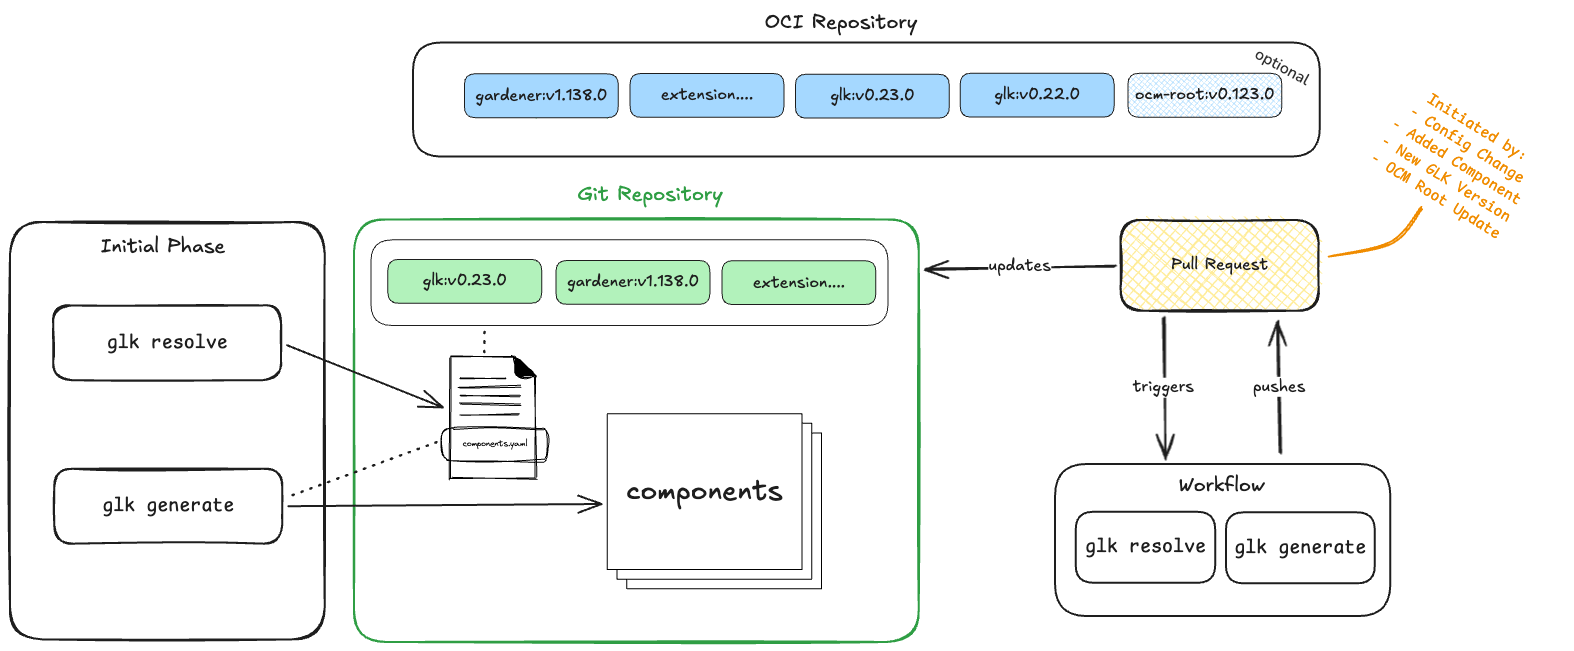
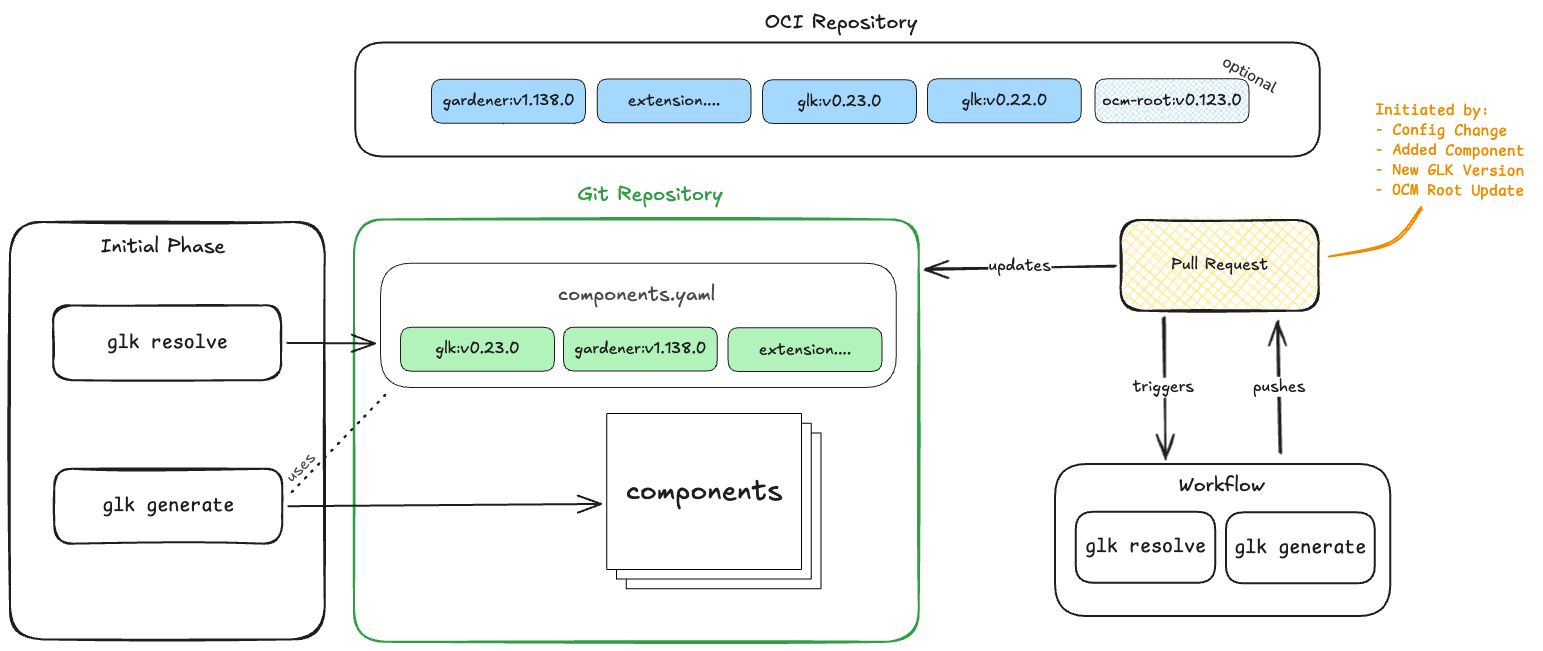
Address review comments

diff --git a/docs/concepts/integration.md b/docs/concepts/integration.md
@@ -11,15 +11,25 @@ GLK usage typically follows two main phases:
 
 ![Integration Diagram](content/integration.png)
 
+> [!NOTE]
+> This document uses terms like "base directory" and "landscape directory" throughout. See the [Glossary](../glossary.md) for precise definitions.
+
 ## Initial Usage
 
 The initial usage phase is typically executed on a local operator machine to bootstrap a new landscape or migrate an existing one to the structures and concepts provided by GLK.
+
+### Prerequisites
+
+Before running GLK for the first time, operators need:
+1. A GLK configuration file (typically `componentconfig-glk.yaml`) - see [LandscapeKit Configuration API Reference](../api-reference/landscapekit-v1alpha1.md)
+2. `base` and `landscape` repository structures prepared - see [Repository Concepts](repositories.md)
+3. (Optional) [OCM](https://ocm.software/) component descriptors if using component version management
 
 ### First-Time Setup
 
 When using GLK for the first time, operators need to:
 
-1. **Prepare Repository Structure**: Set up the base and landscape repositories according to the [repository organization patterns](repositories.md).
+1. **Prepare Repository Structure**: Set up the `base` and `landscape` repositories according to the [repository organization patterns](repositories.md).
 
 2. **Generate Base Manifests**: Create the base directory structure and generate core manifests that are common across multiple landscapes:
    ```bash
@@ -183,7 +193,7 @@ on:
 
 #### Pattern 2: Scheduled Component Resolution
 
-Run `resolve ocm` on a schedule to check for new component versions:
+Run `resolve` on a schedule to check for new component versions:
 
 ```yaml
 on:
@@ -232,14 +242,14 @@ When a new GLK version is released with new features or templates:
    - Enables code review of generated manifests
    - Atomic rollout of changes to the landscape upon merge
 
-3. **Separate resolution and generation**: Run `resolve ocm` before `generate` commands to ensure component data is current:
+3. **Separate resolution and generation**: Run `resolve` before `generate` commands to ensure component version data is current:
    ```bash
    glk resolve ocm -c landscape/glk.yaml .
    glk generate base -c landscape/glk.yaml ./base
    glk generate landscape -c landscape/glk.yaml .
    ```
 
-4. **Test in lower environments first**: For multi-stage landscapes, validate generated changes in development and staging before applying to production.
+4. **Test in lower environments first**: For multi-stage landscapes, validate generated changes in Development and QA before applying to Production.
 
 5. **Document organization-specific triggers**: Since GLK doesn't prescribe when to run operations, document your organization's specific triggers and workflows.
 
@@ -249,7 +259,7 @@ GLK integration consists of:
 
 1. **Initial Setup**: One-time bootstrapping or migration on a local machine
 2. **Workflow Integration**: Embedding GLK into CI/CD pipelines tied to Git repositories
-3. **Automated Operations**: Running `resolve ocm` and `generate` commands based on organizational triggers
+3. **Automated Operations**: Running `resolve` and `generate` commands based on organizational triggers
 4. **Continuous Deployment**: Flux automatically applies generated manifests from Git
 
 By integrating GLK into an automated workflow, operators ensure that landscapes remain consistent, up-to-date, and auditable while reducing manual operational overhead.